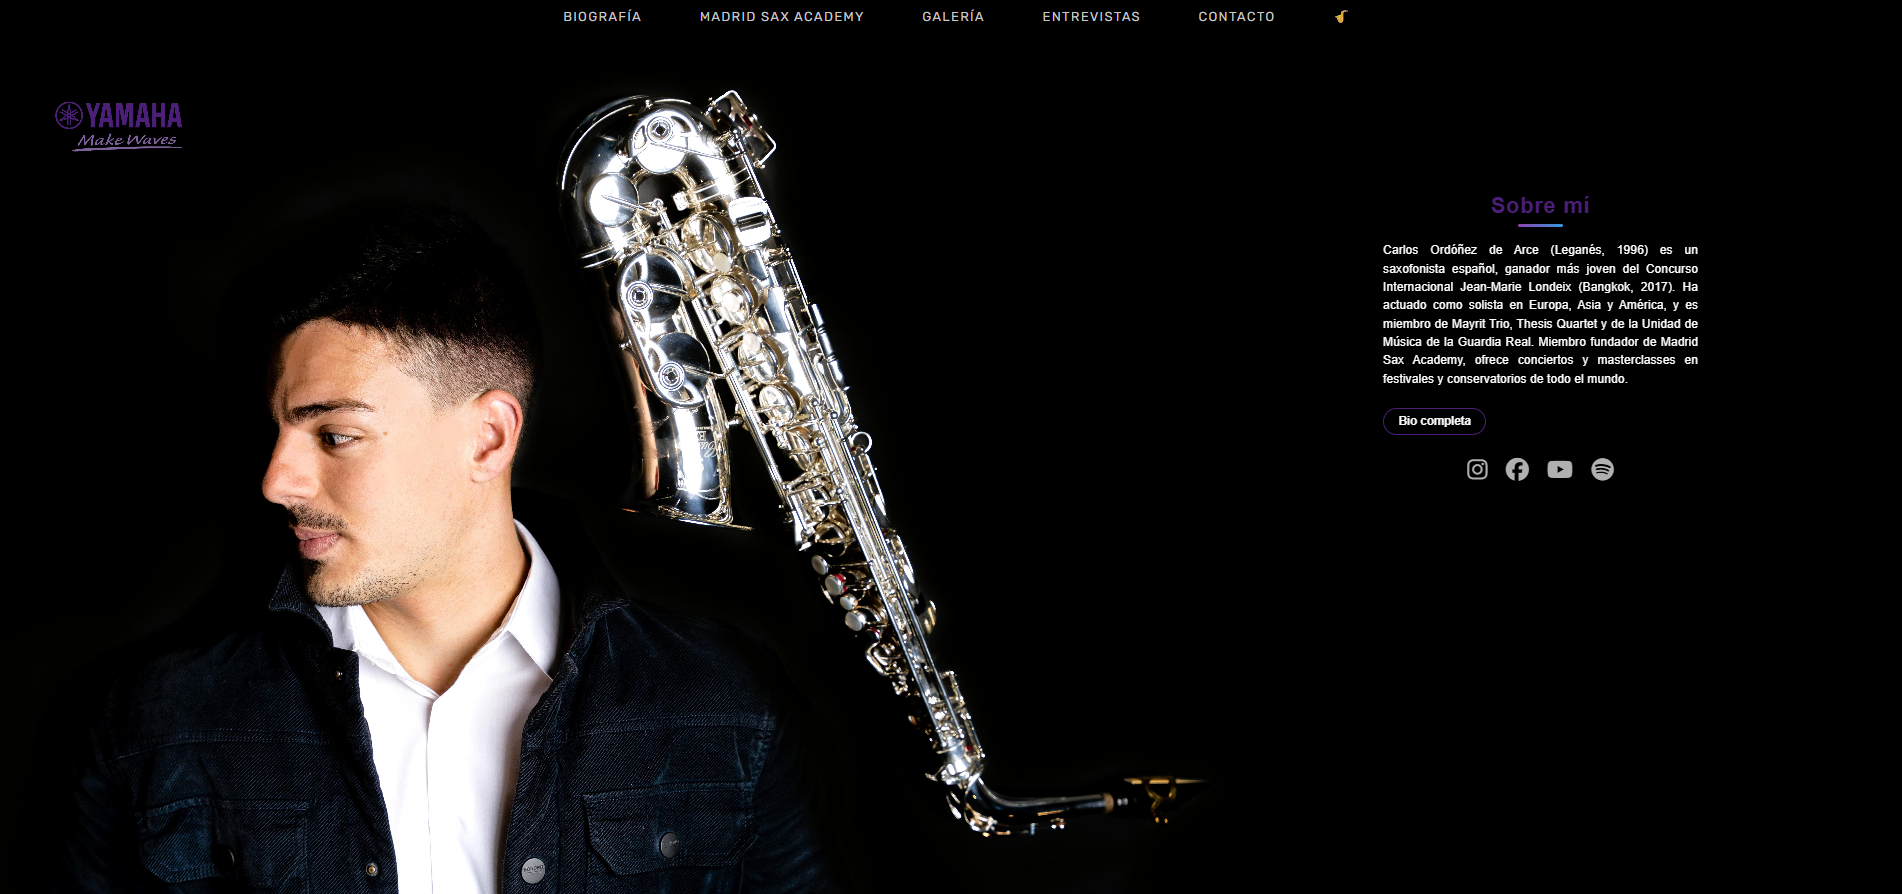
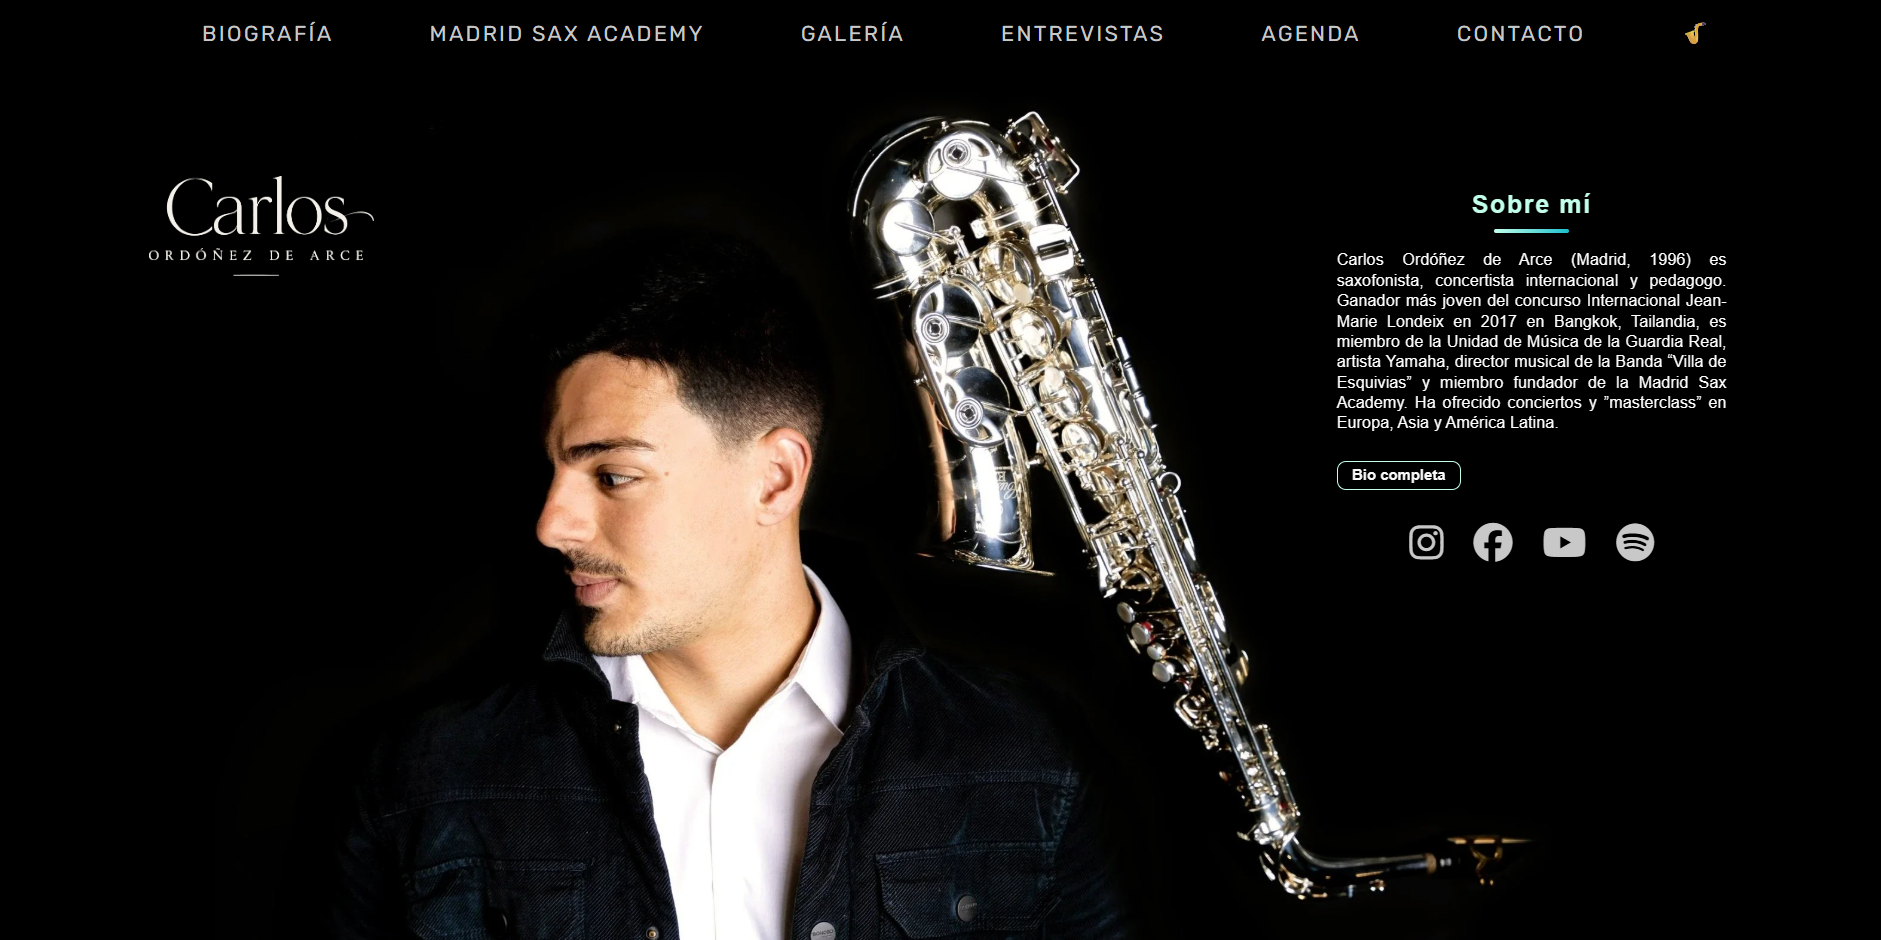
ajustes foto carlos

diff --git a/index.html b/index.html
@@ -127,20 +127,13 @@
 ███████╗██║  ██║╚██████╔╝██║  ██║██║  ██║██╗██████╔╝███████╗ ╚████╔╝ 
 ╚══════╝╚═╝  ╚═╝ ╚═════╝ ╚═╝  ╚═╝╚═╝  ╚═╝╚═╝╚═════╝ ╚══════╝  ╚═══╝</pre>
             <h2 class="visually-hidden" id="boot-title">Laura.dev · Portfolio de Laura Ordóñez de Arce</h2>
-            <div class="boot-screen__log">
-                <p aria-hidden="true" style="--d: 150"><span class="hl">LauraBIOS</span> v4.04 <span class="dim">(C) <span data-anio>2026</span> Laura.dev · Desarrollo web a medida</span></p>
-                <p aria-hidden="true" style="--d: 330">CPU: Desarrolladora Full Stack @ PHP / JavaScript / MySQL</p>
-                <p aria-hidden="true" style="--d: 520">Comprobando memoria ............ <span class="ok">640K OK</span></p>
-                <p aria-hidden="true" style="--d: 720">Cargando café ................... <span class="ok">OK</span></p>
-                <p style="--d: 820" class="boot-screen__debug-line"><span aria-hidden="true">Modo DEBUG ..................... </span><button class="boot-anomaly" type="button" data-boot-anomaly aria-expanded="false" aria-controls="boot-investigate" aria-label="Modo DEBUG: estado desconocido">?</button></p>
-                <p aria-hidden="true" style="--d: 920">Cargando portfolio ............. <span class="boot-screen__bar"><span></span></span> <span class="ok boot-screen__pct">100%</span></p>
-                <p aria-hidden="true" style="--d: 1750" class="ok">Sistema listo.</p>
-            </div>
-            <!-- Al pulsar el "?" de "Modo DEBUG": anomalía que lleva al modo debug -->
-            <div class="boot-investigate" id="boot-investigate" data-boot-investigate lang="en" hidden>
-                <p class="hl">DEBUG MODE DETECTED</p>
-                <p class="dim">&gt; Something is wrong here...</p>
-                <button class="boot-cmd" type="button">[ INVESTIGATE ]</button>
+            <div class="boot-screen__log" aria-hidden="true">
+                <p style="--d: 150"><span class="hl">LauraBIOS</span> v4.04 <span class="dim">(C) 2026 Laura.dev · Desarrollo web a medida</span></p>
+                <p style="--d: 330">CPU: Desarrolladora Full Stack @ PHP / JavaScript / MySQL</p>
+                <p style="--d: 520">Comprobando memoria ............ <span class="ok">640K OK</span></p>
+                <p style="--d: 720">Cargando café ................... <span class="ok">OK</span></p>
+                <p style="--d: 920">Cargando portfolio ............. <span class="boot-screen__bar"><span></span></span> <span class="ok boot-screen__pct">100%</span></p>
+                <p style="--d: 1750" class="ok">Sistema listo.</p>
             </div>
 
             <div class="boot-screen__menu" style="--d: 1950">
@@ -151,58 +144,7 @@
                     <a class="boot-key" href="#servicios" data-boot-go="#servicios"><kbd>S</kbd> Servicios</a>
                     <a class="boot-key" href="#contacto" data-boot-go="#contacto"><kbd>C</kbd> Contacto</a>
                 </div>
-                <!-- Consola: la propia línea C:\> (el texto se escribe en un campo invisible) -->
-                <div class="boot-screen__console">
-                    <div class="boot-screen__output" lang="en" aria-live="polite"></div>
-                    <label class="boot-screen__prompt">
-                        <span class="dim" aria-hidden="true">C:\&gt;</span><span class="boot-screen__typed" aria-hidden="true"></span><span class="boot-screen__cursor" aria-hidden="true"></span><span class="boot-screen__tip" id="boot-tip" lang="en" aria-hidden="true">type 'help'</span>
-                        <input class="boot-screen__input" type="text" aria-label="Consola de comandos" aria-describedby="boot-tip" autocomplete="off" autocapitalize="off" autocorrect="off" spellcheck="false" enterkeyhint="enter" maxlength="32">
-                    </label>
-                </div>
-            </div>
-        </div>
-
-    </div>
-    <!-- Modo debug: minijuego (js/debug.js). Se abre desde la consola de la BIOS (debug), el "?" de "Modo DEBUG" o las anomalías (en la BIOS o en el portfolio) -->
-    <div class="boot-debug" lang="en" role="dialog" aria-modal="true" aria-label="Debug mode" hidden>
-        <div class="boot-debug__bar">
-            <p><span class="hl">DEBUG MODE</span> <span class="dim">· LauraBIOS v4.04</span></p>
-            <button class="boot-cmd" type="button" data-debug-exit>[ EXIT DEBUG MODE ]</button>
-        </div>
-        <p>TIME: <span class="ok" data-debug-time>8s</span></p>
-        <p aria-live="polite">BUGS FIXED: <span class="ok" data-debug-count>0</span> / 10</p>
-        <p class="boot-debug__msg" aria-live="polite"></p>
-        <div class="boot-debug__arena" aria-live="polite">
-            <div class="boot-debug__done" data-debug-ready hidden>
-                <p style="--d: 150" class="hl">ERROR: 10 BUGS DETECTED.</p>
-                <p style="--d: 450" class="boot-debug__badge">DEBUG MODE ACTIVATED</p>
-                <button style="--d: 800" class="boot-cmd" type="button" data-debug-start>[ START DEBUGGING ]</button>
-            </div>
-            <button class="boot-debug__bug" type="button" aria-label="Bug">
-                <svg viewBox="0 0 11 12" aria-hidden="true" focusable="false" shape-rendering="crispEdges"><path fill="currentColor" d="M1 0h1v1h-1zM9 0h1v1h-1zM2 1h1v1h-1zM8 1h1v1h-1zM3 2h5v1h-5zM3 3h1v1h-1zM5 3h1v1h-1zM7 3h1v1h-1zM0 4h1v1h-1zM3 4h5v1h-5zM10 4h1v1h-1zM1 5h4v1h-4zM6 5h4v1h-4zM2 6h3v1h-3zM6 6h3v1h-3zM0 7h5v1h-5zM6 7h5v1h-5zM2 8h3v1h-3zM6 8h3v1h-3zM1 9h4v1h-4zM6 9h4v1h-4zM0 10h1v1h-1zM3 10h5v1h-5zM10 10h1v1h-1zM4 11h3v1h-3z"/></svg>
-            </button>
-            <div class="boot-debug__done" data-debug-done hidden>
-                <pre class="boot-debug__box">╔════════════════════════╗
-║     DEBUG COMPLETE     ║
-╚════════════════════════╝</pre>
-                <p style="--d: 400">10 / 10 BUGS FIXED</p>
-                <p style="--d: 700">TIME: <span data-debug-used>0.0</span>s / 8s</p>
-                <p style="--d: 1000" class="hl">ACHIEVEMENT UNLOCKED</p>
-                <p style="--d: 1300" class="ok boot-debug__badge">JUNIOR DEBUGGER</p>
-                <p style="--d: 2100">&gt; System cleaned successfully.</p>
-                <p style="--d: 2900" class="dim">&gt; But something doesn't look right...</p>
-                <p style="--d: 3700" class="dim">&gt;</p>
-                <p style="--d: 3700" class="dim">&gt; Some systems require a different kind of input...<span class="boot-screen__cursor" aria-hidden="true"></span></p>
-            </div>
-            <div class="boot-debug__done" data-debug-failed hidden>
-                <pre class="boot-debug__box boot-debug__box--fail">╔════════════════════════╗
-║      DEBUG FAILED      ║
-╚════════════════════════╝</pre>
-                <p style="--d: 400">BUGS FIXED: <span data-debug-failed-count>0</span> / 10</p>
-                <p style="--d: 800" class="hl boot-debug__badge">TIME LIMIT EXCEEDED</p>
-                <button style="--d: 1400" class="boot-cmd" type="button" data-debug-retry>[ TRY AGAIN ]</button>
-                <p style="--d: 2200" class="hl boot-debug__alert">&gt; CONTAINMENT FAILURE</p>
-                <p style="--d: 2800" class="dim">&gt; Bugs escaping...</p>
+                <p class="boot-screen__prompt" aria-hidden="true"><span class="dim">C:\&gt;</span><span class="boot-screen__cursor"></span></p>
             </div>
         </div>
     </div>
@@ -397,35 +339,27 @@
                         </header>
 
                         <div class="exp-card__summary">
-                            <h4><span class="mono-accent">ReservatorStore</span> · Plataforma e-commerce multirestaurante</h4>
-                            <p>Desarrollo desde cero de ReservatorStore, una plataforma e-commerce multirestaurante en la que cada restaurante tiene su propia tienda online. Está construida sobre ReservatorMVC, el framework MVC de la empresa, con PHP, JavaScript y MySQL/MariaDB.</p>
+                            <h4><span class="mono-accent">ReservatorStore</span> · Plataforma web multirestaurante con arquitectura MVC</h4>
+                            <p>Desarrollo y mantenimiento de una plataforma web para la gestión de tiendas online independientes dentro de un entorno multirestaurante: backend, integración con frontend, base de datos, validaciones de negocio y flujos críticos como carrito, checkout, delivery y sesiones.</p>
                         </div>
 
                         <ul class="check-list check-list--2col">
-                            <li>Carrito, checkout y creación de pedidos, con sus validaciones.</li>
-                            <li>Delivery y recogida, con entregas inmediatas o programadas y cálculo del precio de envío.</li>
-                            <li>Separación de datos y de sesiones por restaurante.</li>
-                            <li>Registro, inicio de sesión y verificación por SMS.</li>
-                            <li>Pagos con Redsys e integración con Stripe a través de ReservatorPay.</li>
-                            <li>Frontend en JavaScript con Fetch API y consultas SQL en MySQL/MariaDB.</li>
-                            <li>Pruebas manuales y de concurrencia, debugging y resolución de incidencias.</li>
+                            <li>Desarrollo de funcionalidades backend en PHP.</li>
+                            <li>Implementación y mantenimiento de arquitectura MVC.</li>
+                            <li>Desarrollo de flujos de checkout, carrito y delivery.</li>
+                            <li>Gestión de sesiones, autenticación y validaciones.</li>
+                            <li>Funcionalidades multi-restaurante con separación de datos.</li>
+                            <li>Integración de JavaScript con AJAX y Fetch API.</li>
+                            <li>Consultas SQL y gestión de datos en MySQL/MariaDB.</li>
+                            <li>Optimización, pruebas manuales y resolución de incidencias.</li>
                         </ul>
-
-                        <div class="exp-card__challenges">
-                            <h4>Retos técnicos</h4>
-                            <ul class="check-list">
-                                <li><strong>Sesiones:</strong> aislé el contexto de cada restaurante para evitar que la sesión se mezclara entre tiendas o pestañas.</li>
-                                <li><strong>Concurrencia:</strong> analicé locks y esperas en operaciones críticas del carrito y la creación de pedidos.</li>
-                                <li><strong>Reservas de productos:</strong> probé consultas con <code>FOR UPDATE</code> e índices; un índice sobre <code>oc_order_product(product_id)</code> provocaba deadlocks reales y fue descartado tras las pruebas.</li>
-                                <li><strong>Transacciones:</strong> la creación de pedidos se realiza dentro de una transacción, con <code>rollback</code> si falla algún paso.</li>
-                            </ul>
-                        </div>
 
                         <ul class="chips" aria-label="Tecnologías utilizadas">
                             <li class="chip chip--cyan chip--sm">PHP</li>
                             <li class="chip chip--cyan chip--sm">JavaScript</li>
                             <li class="chip chip--cyan chip--sm">MySQL / MariaDB</li>
                             <li class="chip chip--cyan chip--sm">MVC</li>
+                            <li class="chip chip--cyan chip--sm">AJAX</li>
                             <li class="chip chip--cyan chip--sm">Fetch API</li>
                             <li class="chip chip--cyan chip--sm">HTML5</li>
                             <li class="chip chip--cyan chip--sm">CSS3</li>
@@ -469,14 +403,14 @@
                                 <div class="window__bar" aria-hidden="true"><span></span><span></span><span></span><span class="window__url">carlosordonezmusic.es</span></div>
                                 <picture>
                                     <source srcset="img/webCarlos.webp" type="image/webp">
-                                    <img src="img/webCarlos.png" alt="Captura de la web oficial del saxofonista Carlos Ordóñez, carlosordonezmusic.es" width="1902" height="894" loading="lazy" decoding="async">
+                                    <img src="img/webCarlos.png" alt="Captura de la web oficial del saxofonista Carlos Ordóñez, carlosordonezmusic.es" width="1881" height="940" loading="lazy" decoding="async">
                                 </picture>
                             </div>
 
                             <!-- Móvil con la página completa: se recorre al pasar el ratón (o sola en móvil) -->
                             <div class="phone" tabindex="0" aria-label="Versión móvil de la web. Pasa el ratón o enfoca para recorrerla.">
                                 <div class="phone__screen">
-                                    <img class="phone__page" src="img/webCarlos-movil.webp" alt="Página completa de carlosordonezmusic.es en móvil" width="480" height="7692" loading="lazy" decoding="async">
+                                    <img class="phone__page" src="img/webCarlos-movil.webp" alt="Página completa de carlosordonezmusic.es en móvil" width="720" height="13345" loading="lazy" decoding="async">
                                 </div>
                             </div>
                         </div>
@@ -730,11 +664,7 @@
                     <i class="fas fa-code" aria-hidden="true"></i>
                     <span>Laura<span class="nav-brand__dot">.dev</span></span>
                 </a>
-                <div class="footer__meta">
-                    <p class="footer__copy">&copy; <span data-anio>2026</span> Laura.dev · Todos los derechos reservados</p>
-                    <!-- Pista del secreto (js/secreto.js): las teclas del código Konami se encienden al acertarlas; en móvil se tocan en orden -->
-                    <p class="konami" data-konami aria-hidden="true"><button class="konami__key" type="button" tabindex="-1" data-key="arrowup">↑</button><button class="konami__key" type="button" tabindex="-1" data-key="arrowup">↑</button><button class="konami__key" type="button" tabindex="-1" data-key="arrowdown">↓</button><button class="konami__key" type="button" tabindex="-1" data-key="arrowdown">↓</button><button class="konami__key" type="button" tabindex="-1" data-key="arrowleft">←</button><button class="konami__key" type="button" tabindex="-1" data-key="arrowright">→</button><button class="konami__key" type="button" tabindex="-1" data-key="arrowleft">←</button><button class="konami__key" type="button" tabindex="-1" data-key="arrowright">→</button><button class="konami__key" type="button" tabindex="-1" data-key="b">B</button><button class="konami__key" type="button" tabindex="-1" data-key="a">A</button></p>
-                </div>
+                <p class="footer__copy">&copy; 2026 Laura.dev · Todos los derechos reservados</p>
             </div>
             <div class="footer__right">
                 <div class="social-row">
@@ -765,12 +695,10 @@
 
     <script src="js/particles.js" defer></script>
     <script src="js/tema.js" defer></script>
-    <script src="js/anio.js" defer></script>
     <script src="js/menuPort.js" defer></script>
     <script src="js/reveal.js" defer></script>
     <script src="js/animaciones.js" defer></script>
     <script src="js/inicio.js" defer></script>
-    <script src="js/debug.js" defer></script>
     <script src="js/secreto.js" defer></script>
     <script src="js/proyectos.js" defer></script>
     <script src="js/contacto.js" defer></script>
